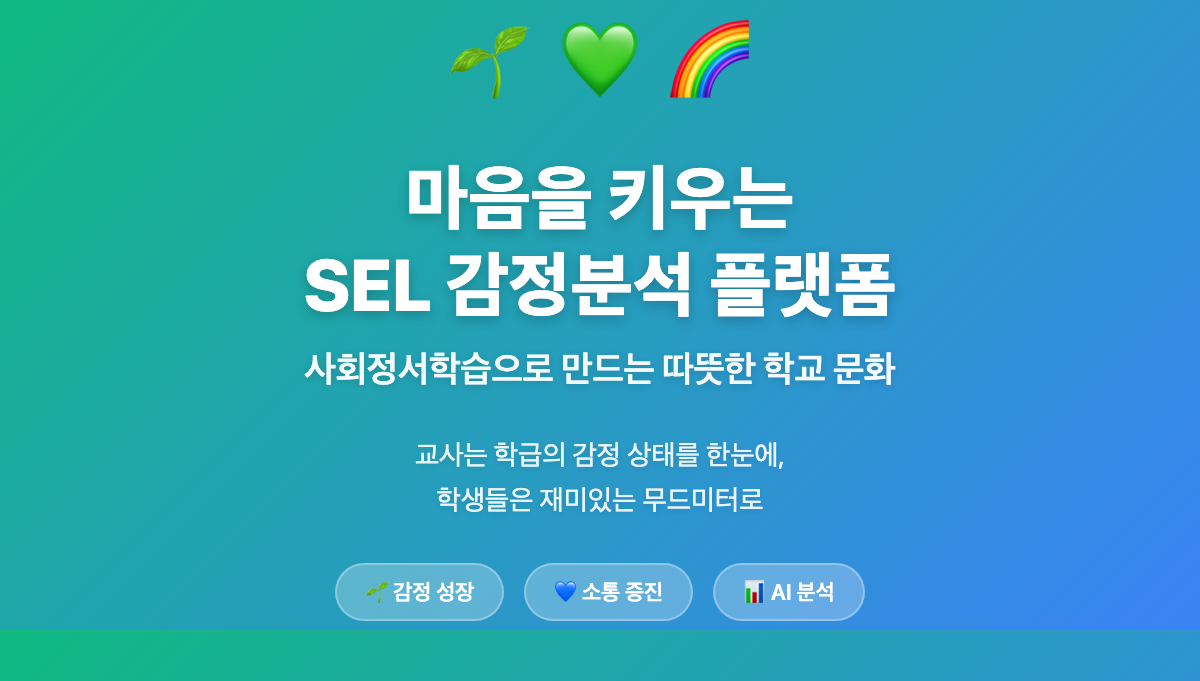
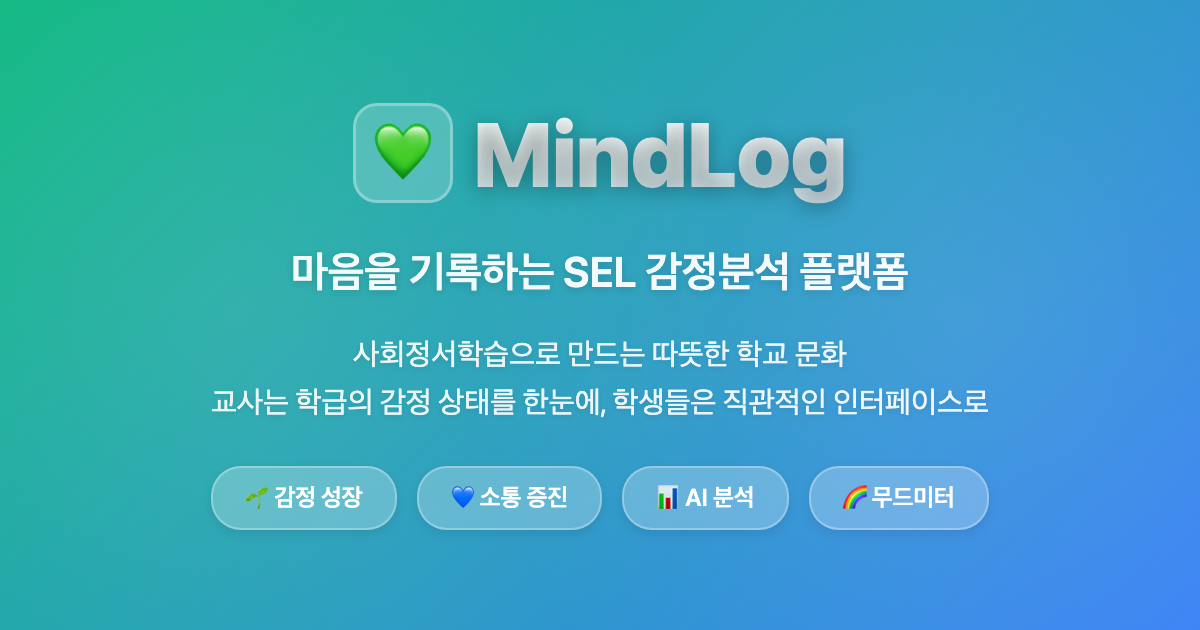
Update: MindLog 브랜딩 반영한 새로운 OG 이미지 생성
주요 변경사항:
- OG 이미지 템플릿을 MindLog 브랜딩으로 완전 업데이트
- 💚 로고와 'MindLog' 브랜드명 중심 디자인
- '마음을 기록하는 SEL 감정분석 플랫폼' 서브타이틀 추가
- 4개 태그 추가: 감정 성장, 소통 증진, AI 분석, 무드미터
- 배경 패턴과 그라데이션으로 시각적 깊이감 강화

기술 개선:
- 1200x630px SNS 최적화 크기 (Facebook, Twitter, KakaoTalk 호환)
- Playwright로 자동 생성하여 일관성 보장
- 고해상도 512KB PNG 포맷

SNS 공유 시 새로운 MindLog 이미지가 표시됩니다.

🤖 Generated with Claude Code

Changed region(s): [[0.0, 0.5127, 1.0, 1.0], [0.2467, 0.1508, 0.7708, 0.4825], [0.37, 0.0302, 0.6475, 0.1508]]

diff --git a/public/og-image-template.html b/public/og-image-template.html
@@ -3,7 +3,7 @@
 <head>
     <meta charset="UTF-8">
     <meta name="viewport" content="width=device-width, initial-scale=1.0">
-    <title>SEL 감정분석 플랫폼 - OG 이미지</title>
+    <title>MindLog - 마음을 기록하는 SEL 감정분석 플랫폼 - OG 이미지</title>
     <style>
         * {
             margin: 0;
@@ -20,45 +20,77 @@
             justify-content: center;
             font-family: -apple-system, BlinkMacSystemFont, "Segoe UI", Roboto, sans-serif;
             overflow: hidden;
+            position: relative;
+        }
+
+        /* 배경 패턴 */
+        body::before {
+            content: '';
+            position: absolute;
+            top: 0;
+            left: 0;
+            right: 0;
+            bottom: 0;
+            background-image: radial-gradient(circle at 20% 50%, rgba(255, 255, 255, 0.1) 0%, transparent 50%),
+                              radial-gradient(circle at 80% 50%, rgba(255, 255, 255, 0.1) 0%, transparent 50%);
+            pointer-events: none;
         }
 
         .container {
             text-align: center;
             color: white;
             padding: 60px;
+            position: relative;
+            z-index: 1;
         }
 
-        .emoji-row {
+        /* 로고 영역 */
+        .logo-section {
             display: flex;
+            align-items: center;
             justify-content: center;
-            gap: 30px;
+            gap: 20px;
             margin-bottom: 40px;
-            font-size: 80px;
         }
 
-        h1 {
-            font-size: 72px;
-            font-weight: 800;
-            margin-bottom: 20px;
-            text-shadow: 0 4px 12px rgba(0, 0, 0, 0.2);
-            line-height: 1.2;
+        .logo {
+            width: 100px;
+            height: 100px;
+            background: rgba(255, 255, 255, 0.2);
+            border-radius: 24px;
+            display: flex;
+            align-items: center;
+            justify-content: center;
+            font-size: 60px;
+            border: 3px solid rgba(255, 255, 255, 0.3);
+            backdrop-filter: blur(10px);
+        }
+
+        .brand-name {
+            font-size: 90px;
+            font-weight: 900;
+            background: linear-gradient(180deg, #ffffff 0%, rgba(255, 255, 255, 0.8) 100%);
+            -webkit-background-clip: text;
+            -webkit-text-fill-color: transparent;
+            background-clip: text;
+            text-shadow: 0 4px 20px rgba(0, 0, 0, 0.3);
         }
 
         .subtitle {
-            font-size: 36px;
+            font-size: 42px;
             font-weight: 600;
-            margin-bottom: 40px;
+            margin-bottom: 30px;
             opacity: 0.95;
             text-shadow: 0 2px 8px rgba(0, 0, 0, 0.15);
         }
 
         .description {
-            font-size: 28px;
+            font-size: 30px;
             font-weight: 400;
             line-height: 1.6;
             opacity: 0.9;
             max-width: 900px;
-            margin: 0 auto;
+            margin: 0 auto 40px;
             text-shadow: 0 2px 6px rgba(0, 0, 0, 0.1);
         }
 
@@ -66,38 +98,37 @@
             display: flex;
             justify-content: center;
             gap: 20px;
-            margin-top: 40px;
             flex-wrap: wrap;
         }
 
         .tag {
             background: rgba(255, 255, 255, 0.25);
             backdrop-filter: blur(10px);
-            padding: 12px 28px;
+            padding: 14px 32px;
             border-radius: 30px;
-            font-size: 22px;
+            font-size: 24px;
             font-weight: 600;
             border: 2px solid rgba(255, 255, 255, 0.3);
+            box-shadow: 0 4px 12px rgba(0, 0, 0, 0.1);
         }
     </style>
 </head>
 <body>
     <div class="container">
-        <div class="emoji-row">
-            <span>🌱</span>
-            <span>💚</span>
-            <span>🌈</span>
+        <div class="logo-section">
+            <div class="logo">💚</div>
+            <div class="brand-name">MindLog</div>
         </div>
-        <h1>마음을 키우는<br/>SEL 감정분석 플랫폼</h1>
-        <div class="subtitle">사회정서학습으로 만드는 따뜻한 학교 문화</div>
+        <div class="subtitle">마음을 기록하는 SEL 감정분석 플랫폼</div>
         <div class="description">
-            교사는 학급의 감정 상태를 한눈에,<br/>
-            학생들은 재미있는 무드미터로
+            사회정서학습으로 만드는 따뜻한 학교 문화<br/>
+            교사는 학급의 감정 상태를 한눈에, 학생들은 직관적인 인터페이스로
         </div>
         <div class="tags">
             <div class="tag">🌱 감정 성장</div>
             <div class="tag">💙 소통 증진</div>
             <div class="tag">📊 AI 분석</div>
+            <div class="tag">🌈 무드미터</div>
         </div>
     </div>
 </body>
